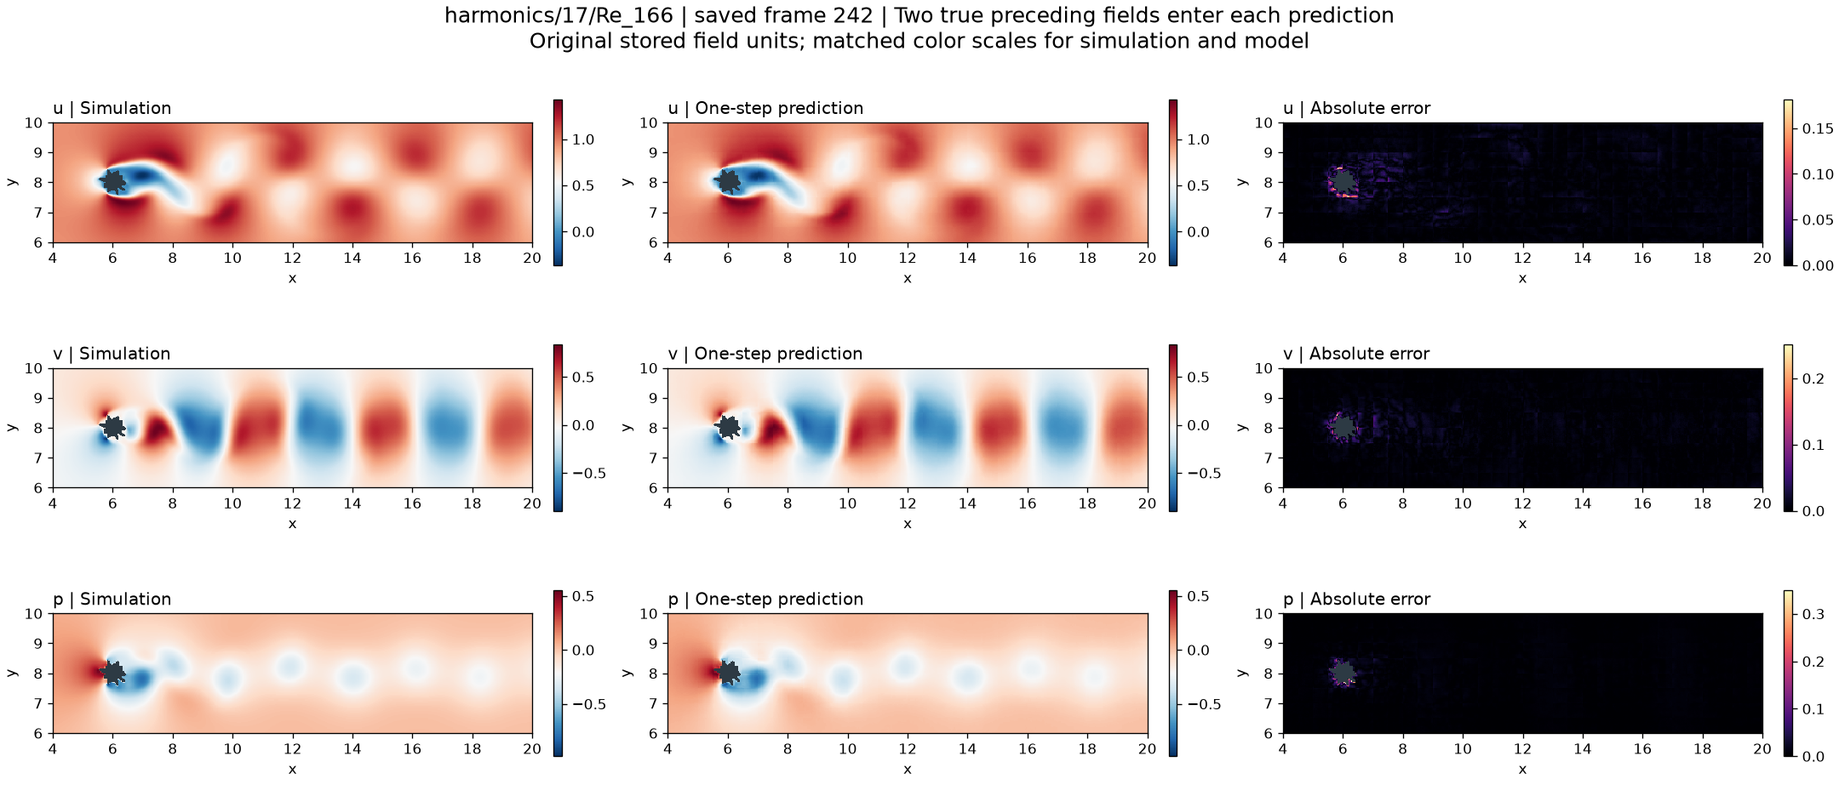
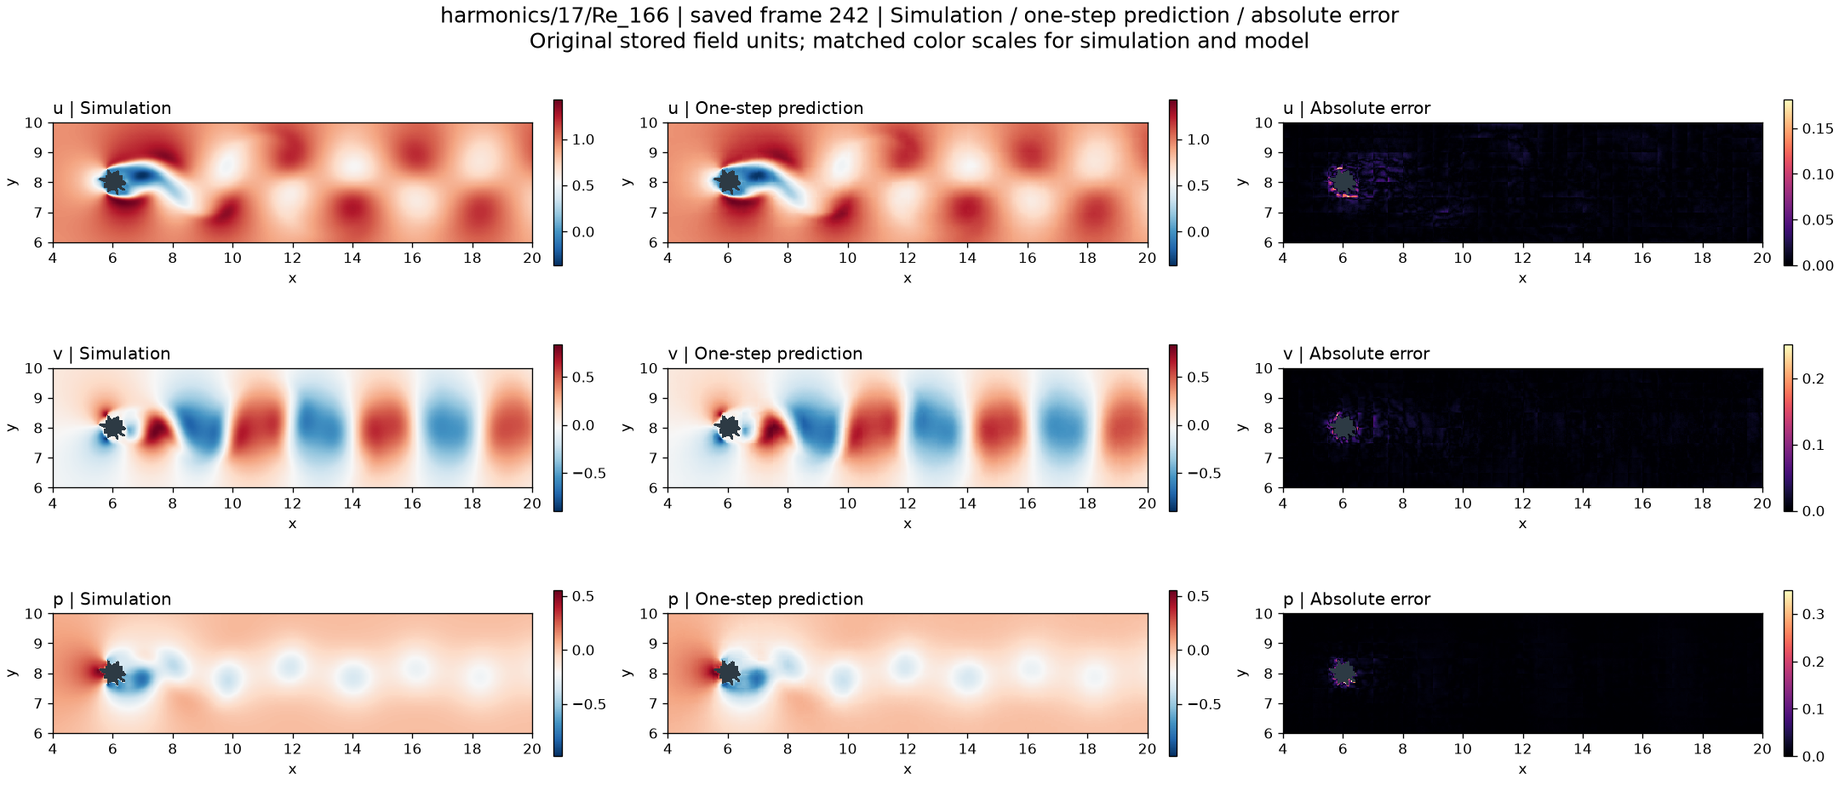
Simplify flow showcase captions and presentation text

Changed region(s): [[0.2171, 0.0, 0.7755, 0.031]]

diff --git a/scripts/build_flow_gallery.py b/scripts/build_flow_gallery.py
@@ -73,7 +73,7 @@ def scientific_frame(true, model, mask, meta, index, task, limit):
         d.text((1053, y), f"{v:.1f}", font=font(14), fill=NAVY)
     d.text((1032, 102), "v", font=font(17, True), fill=NAVY)
     d.line((28, 699, 1072, 699), fill="#d7e4eb", width=1)
-    note = "Inputs: geometry, Re + two true historical fields" if task == "prediction" else "Inputs: geometry, Re + true field at the displayed time"
+    note = "Simulation vs one-step prediction | 100 frames | 20 fps" if task == "prediction" else "Inputs: geometry, Re + true field at the displayed time"
     d.text((29, 711), note, font=font(17), fill="#536b79")
     return im
 
@@ -113,7 +113,7 @@ def full_comparison(truth, model, mask, meta, task, path):
             ax.set_title(f"{name} | {title}",loc="left",fontsize=12)
             ax.set_xlabel("x");ax.set_ylabel("y")
             fig.colorbar(pic,ax=ax,shrink=.70,pad=.025)
-    note="Two true preceding fields enter each prediction" if task=="prediction" else "Current true field enters reconstruction"
+    note="Simulation / one-step prediction / absolute error" if task=="prediction" else "Current true field enters reconstruction"
     fig.suptitle(meta["case_id"]+" | saved frame 242 | "+note+"\nOriginal stored field units; matched color scales for simulation and model",fontsize=15)
     fig.savefig(path,dpi=120);plt.close(fig)
 
@@ -123,11 +123,11 @@ def case_doc(slug, meta, shape, feature):
 
 [主页](../../README.md) · [绕流预测图集](../flow-prediction.md) · [流场重建图集](../flow-reconstruction.md)
 
-该工况来自固定测试集。关注：{feature}。几何与 Re 是共同的静态条件；下列两个任务的流场输入不同。
+该工况来自固定测试集。关注：{feature}。下方分别展示单步预测与空间重建的流场对比。
 
 ## 仿真与单步预测
 
-每次预测输入前两帧真实流场及实际查询间隔。动画连续展示 100 个时刻的单步预测，不是 100 步自由滚动。
+仿真与单步预测逐帧对照，连续展示 100 个保存时刻。
 
 ![仿真与单步预测的100帧对比](../../assets/flow/gallery/{slug}/prediction.gif)
 
@@ -148,7 +148,7 @@ def case_doc(slug, meta, shape, feature):
 def gallery_doc(task, cases):
     prediction=task=="prediction"
     heading="绕流演化：仿真与单步预测" if prediction else "流场重建：不同形状与雷诺数"
-    intro=("每次预测使用几何、Re、前两帧真实流场和实际时间间隔。这里连续展示 100 个单步预测结果，未进行长期自由滚动。" if prediction else
+    intro=("对比不同物体形状与雷诺数下的仿真流场和单步预测结果，观察尾迹随时间的变化。" if prediction else
            "每个时刻将真实流场输入自编码器，比较仿真场与重建场，观察不同几何和 Re 下的空间表示能力。")
     other="flow-reconstruction.md" if prediction else "flow-prediction.md"
     text=f'''# {heading}
@@ -176,6 +176,8 @@ def gallery_doc(task, cases):
 def main():
     p=argparse.ArgumentParser(description=__doc__)
     p.add_argument("--exports",type=Path,required=True)
+    p.add_argument("--tasks",nargs="+",choices=["prediction","reconstruction"],default=["prediction","reconstruction"],
+                   help="Render only selected task assets; retain existing assets for other tasks")
     args=p.parse_args()
     ASSETS.mkdir(parents=True,exist_ok=True)
     (ROOT/"docs/flow-cases").mkdir(exist_ok=True)
@@ -201,10 +203,15 @@ def main():
             for task in ["prediction","reconstruction"]:
                 values=z[task]
                 assert values.shape==truth.shape and np.isfinite(values).all()
-                frames=[scientific_frame(truth[i,...,1],values[i,...,1],mask,meta,i,task,limit) for i in range(100)]
-                save_gif(frames,dest/(task+".gif"))
-                frames[-1].save(dest/(task+"-preview.png"),optimize=True)
-                full_comparison(truth,values,mask,meta,task,dest/(task+"-fields.png"))
+                if task in args.tasks:
+                    frames=[scientific_frame(truth[i,...,1],values[i,...,1],mask,meta,i,task,limit) for i in range(100)]
+                    save_gif(frames,dest/(task+".gif"))
+                    frames[-1].save(dest/(task+"-preview.png"),optimize=True)
+                    full_comparison(truth,values,mask,meta,task,dest/(task+"-fields.png"))
+                else:
+                    for suffix in [".gif","-preview.png","-fields.png"]:
+                        if not (dest/(task+suffix)).is_file():
+                            raise FileNotFoundError(f"Missing retained task asset: {task+suffix}; render both tasks first")
                 delta=(values[:,mask]-truth[:,mask]).astype(np.float64)
                 metrics[task]=np.sqrt((delta**2).sum(axis=(0,1))/(truth[:,mask].astype(np.float64)**2).sum(axis=(0,1))).tolist()
             meta.update(slug=slug,shape=shape,feature=feature,

diff --git a/README.en.md b/README.en.md
@@ -16,11 +16,11 @@
 <tr><td><a href="docs/car-crash.md"><img src="assets/car-crash/prediction.gif" width="100%" alt="Vehicle crash prediction, truth and vector error across 13 saved frames" /></a></td><td><a href="docs/bumper.md"><img src="assets/bumper/prediction.gif" width="100%" alt="Bumper trajectory prediction, truth and vector error across 11 saved frames" /></a></td></tr>
 <tr><td><strong>Condition-driven transient prediction.</strong><br/>136,727 BIW nodes, 0–120 ms.<br/><a href="docs/car-crash.md">Case study →</a> · <a href="assets/car-crash/full-comparison.png">Full comparison</a></td><td><strong>One-shot trajectory prediction.</strong><br/>13,676 nodes; source length and time units.<br/><a href="docs/bumper.md">Case study →</a> · <a href="assets/bumper/full-comparison.png">Full comparison</a></td></tr>
 <tr><th>Flow Reconstruction</th><th>Flow Prediction</th></tr>
-<tr><td><a href="docs/flow-reconstruction.md"><img src="assets/flow/gallery/harmonics-17-Re-974/reconstruction.gif" width="100%" alt="Simulation and true-field-conditioned reconstruction, 100 consecutive frames, harmonics/17 Re974" /></a></td><td><a href="docs/flow-prediction.md"><img src="assets/flow/gallery/nurbs-87-Re-874/prediction.gif" width="100%" alt="Simulation and one-step prediction using two true historical fields, 100 consecutive targets, nurbs/87 Re874" /></a></td></tr>
-<tr><td><strong>Spatial field representation.</strong><br/>Simulation and reconstruction at 20 fps. Four geometry types and eight test conditions.<br/><a href="docs/flow-reconstruction.md">Geometry and Re reconstruction gallery →</a> · <a href="docs/flow-cases/harmonics-17-Re-974.md">Full u / v / p comparisons</a></td><td><strong>Simulation versus one-step prediction.</strong><br/>100 consecutive target frames; each prediction uses two true historical fields.<br/><a href="docs/flow-prediction.md">Geometry and Re prediction GIF gallery →</a> · <a href="docs/flow.md">Task details</a></td></tr>
+<tr><td><a href="docs/flow-reconstruction.md"><img src="assets/flow/gallery/harmonics-17-Re-974/reconstruction.gif" width="100%" alt="Simulation and true-field-conditioned reconstruction, 100 consecutive frames, harmonics/17 Re974" /></a></td><td><a href="docs/flow-prediction.md"><img src="assets/flow/gallery/nurbs-87-Re-874/prediction.gif" width="100%" alt="Simulation and one-step prediction across 100 consecutive frames, nurbs/87 Re874" /></a></td></tr>
+<tr><td><strong>Spatial field representation.</strong><br/>Simulation and reconstruction at 20 fps. Four geometry types and eight test conditions.<br/><a href="docs/flow-reconstruction.md">Geometry and Re reconstruction gallery →</a> · <a href="docs/flow-cases/harmonics-17-Re-974.md">Full u / v / p comparisons</a></td><td><strong>Simulation versus one-step prediction.</strong><br/>100 consecutive frames with synchronized simulation and model comparisons.<br/><a href="docs/flow-prediction.md">Geometry and Re prediction GIF gallery →</a> · <a href="docs/flow.md">Task details</a></td></tr>
 </table>
 
-Structural animations show predictions from known conditions. Flow reconstruction uses the current true field; each flow prediction uses the two preceding true fields. The 100-frame animation is not a 100-step free rollout. Flow GIFs show cross-stream velocity v with a shared fixed color scale; case pages include u / v / p and error maps. Playback time is illustrative; no temporal interpolation is used.
+Structural animations show transient response predictions. Flow cases present spatial reconstruction and one-step prediction comparisons. Flow GIFs show cross-stream velocity v with a shared fixed color scale; case pages include u / v / p and error maps. Playback time is illustrative; no temporal interpolation is used.
 
 <a id="research"></a>
 ## Research Focus

diff --git a/README.md b/README.md
@@ -37,15 +37,15 @@
   </tr>
   <tr>
     <td><a href="docs/flow-reconstruction.md"><img src="assets/flow/gallery/harmonics-17-Re-974/reconstruction.gif" width="100%" alt="多瓣形 Re974：仿真流场与自编码器重建的100帧对比，输入当前真实场" /></a></td>
-    <td><a href="docs/flow-prediction.md"><img src="assets/flow/gallery/nurbs-87-Re-874/prediction.gif" width="100%" alt="不对称形 Re874：仿真与单步预测的100帧对比，每次预测输入两帧真实历史场" /></a></td>
+    <td><a href="docs/flow-prediction.md"><img src="assets/flow/gallery/nurbs-87-Re-874/prediction.gif" width="100%" alt="不对称形 Re874：仿真与单步预测的100帧对比" /></a></td>
   </tr>
   <tr>
     <td><strong>复杂几何下的物理场表示</strong><br/>仿真流场与空间重建同步播放，100 个连续帧、20 fps。四类几何、八个 Re 工况，观察不同尾迹与横向速度结构。<br/><a href="docs/flow-reconstruction.md">不同形状与 Re 的重建图集 →</a> · <a href="docs/flow-cases/harmonics-17-Re-974.md">u / v / p 高清对比</a></td>
-    <td><strong>仿真与单步预测对比</strong><br/>每次输入两帧真实历史流场，展示 100 个连续时刻的单步预测。统一色标对照圆钝形、多瓣形、细长形与不对称形绕流。<br/><a href="docs/flow-prediction.md">不同形状与 Re 的预测动图 →</a> · <a href="docs/flow.md">案例说明</a></td>
+    <td><strong>仿真与单步预测对比</strong><br/>100 个连续时刻，流畅展示仿真与单步预测的流场对比。统一色标对照圆钝形、多瓣形、细长形与不对称形绕流。<br/><a href="docs/flow-prediction.md">不同形状与 Re 的预测动图 →</a> · <a href="docs/flow.md">案例说明</a></td>
   </tr>
 </table>
 
-**读图说明：** 结构案例为条件驱动的后续响应预测；流场重建输入当前真实场；流场单步预测输入前两帧真实场，100 帧动画不表示 100 步自由滚动。流场动画显示横向速度 v，高清图提供 u / v / p。GIF 播放速度用于演示，未进行时间插值。点击流场图片可浏览更多几何与 Re 工况。
+**读图说明：** 结构案例展示后续响应预测；流场案例分别展示空间重建与单步预测对比。流场动画显示横向速度 v，高清图提供 u / v / p。GIF 播放速度用于演示，未进行时间插值。点击流场图片可浏览更多几何与 Re 工况。
 
 <a id="research"></a>
 ## 研究方向
@@ -54,7 +54,7 @@
 | :--- | :--- | :--- |
 | **结构动力学代理模型** | 如何从结构几何、设计参数与初始条件预测非线性瞬态响应？ | 白车身碰撞、保险杠冲击的三维位移场与误差分析 |
 | **物理场空间表示** | 如何在网格与复杂流体域上压缩、重建高维物理场？ | 多尺度空间表示，以及速度、压力重建结果 |
-| **潜空间动力学** | 如何在紧凑表示上学习响应随时间的演化？ | 结构整轨迹预测；Flow 使用真实历史场的单步预测评估 |
+| **潜空间动力学** | 如何在紧凑表示上学习响应随时间的演化？ | 结构整轨迹预测；Flow 单步预测与流场对照 |
 | **物理场对照分析** | 如何观察预测场、真实场与局部误差的空间分布？ | 多视角云图、时序动画与素材来源 |
 
 <img src="assets/branding/workflow.svg" width="100%" alt="研究流程：几何与工况、空间表示、时间演化、全场响应；具体输入条件以各案例文档为准" />

diff --git a/docs/flow.md b/docs/flow.md
@@ -6,10 +6,10 @@ Flow 项目研究复杂几何绕流的速度与压力场，以几何的 SDF/mask
 
 ## 浏览流场对比
 
-| 图集 | 展示内容 | 模型使用的流场信息 |
+| 图集 | 展示内容 | 对照内容 |
 | :--- | :--- | :--- |
-| [绕流演化：仿真与单步预测](flow-prediction.md) | 四类形状、八个 Re 工况，每例 100 帧流畅对比 | 每次输入前两帧真实流场，预测下一时刻 |
-| [流场重建：形状与 Re 对比](flow-reconstruction.md) | 同一组工况的仿真与空间重建对比 | 输入当前时刻真实场并重建该时刻 |
+| [绕流演化：仿真与单步预测](flow-prediction.md) | 四类形状、八个 Re 工况，每例 100 帧流畅对比 | 仿真与单步预测 |
+| [流场重建：形状与 Re 对比](flow-reconstruction.md) | 同一组工况的仿真与空间重建对比 | 仿真与空间重建 |
 
 点击图集中的任一动图，可进入工况详情，查看预测与重建两组 GIF，以及末帧 u、v、p 的仿真、模型和绝对误差高清图。
 
@@ -30,12 +30,8 @@ Flow 项目研究复杂几何绕流的速度与压力场，以几何的 SDF/mask
 
 上方为仿真结果，下方为模型结果。GIF 显示横向速度 **v**，便于观察交替尾迹和横向速度结构。所有工况与时刻共用固定色标，深灰色是固体区域。末帧高清图补充 **u、v、p** 及绝对误差；仿真与模型共享色标，误差列使用独立色标。
 
-模型编码使用原始 **1024 × 256** 网格的真实历史场或当前场。为了控制网页体积，导出对比场在两个空间方向各每隔一个原始节点取样，形成 **512 × 128** 网格；没有对流场进行时间插值。坐标范围为原数据裁切域 `x∈[4,20], y∈[6,10]`，物理量使用原始存储尺度，不标注未经核实的 SI 单位。
+原始流场网格为 **1024 × 256**。为了控制网页体积，导出对比场在两个空间方向各每隔一个原始节点取样，形成 **512 × 128** 网格；没有对流场进行时间插值。坐标范围为原数据裁切域 `x∈[4,20], y∈[6,10]`，物理量使用原始存储尺度，不标注未经核实的 SI 单位。
 
-## 预测与重建的输入条件
+## 素材来源
 
-**单步预测：** 在每个目标时刻，使用前两个真实历史场、几何、Re 和实际查询间隔。目标时刻真实场不进入该次预测。下一次预测仍使用对应的真实历史场，因此此图集不代表只凭几何/Re 进行 100 步自由滚动的能力。
-
-**空间重建：** 当前时刻的真实流场进入编码器，模型解码出同一时刻的流场。它检验空间压缩与表示能力。
-
-当前图集与已有全测试集数值评估采用同一个冻结检查点。完整的 85 工况评估覆盖 20,570 个重建帧与 20,230 个单步预测窗口；图集只展示八个工况的连续片段。完整评估存档见 [测试集结果](../results/flow-epoch095.json)，本次素材的工况、帧序号和来源校验值见 [图集导出记录](../results/flow-gallery.json)。
+图集采用统一的冻结检查点，展示八个测试工况的连续片段。工况、帧序号和素材来源见 [图集导出记录](../results/flow-gallery.json)。

diff --git a/docs/methodology.md b/docs/methodology.md
@@ -6,11 +6,11 @@
 
 ![研究流程](../assets/branding/workflow.svg)
 
-结构案例以几何、设计参数和已知初始条件为输入，研究空间编码、潜空间演化和全场解码。Flow 案例研究复杂流体域上的多尺度空间表示，并单独评估真实历史场条件下的单步时序预测。实际模型输入与评估范围以各案例说明为准：
+结构案例以几何、设计参数和已知初始条件为输入，研究空间编码、潜空间演化和全场解码。Flow 案例研究复杂流体域上的多尺度空间表示，并展示单步时序预测。实际模型输入与评估范围以各案例说明为准：
 
 - [Car Crash](car-crash.md)：条件驱动的白车身未来位移场。
 - [Bumper](bumper.md)：已知初始网格与静态工况下的整段位置轨迹。
-- [Flow](flow.md)：重建、历史条件单步预测与原始仿真数据。
+- [Flow](flow.md)：重建、单步预测与原始仿真数据。
 
 ## 仓库结构
 
@@ -57,7 +57,7 @@ python scripts/verify_showcase.py
 
 ## 流场多工况动图
 
-本次图集使用 `scripts/export_flow_gallery.py` 在原研究环境中读取冻结检查点与预处理数据，执行推理并导出仿真、重建和单步预测场。导出程序先用两个历史编码生成预测，再读取并编码当前真实场进行重建；当前目标不进入该次预测。它不会启动训练或修改模型权重。
+本次图集使用 `scripts/export_flow_gallery.py` 在原研究环境中读取冻结检查点与预处理数据，执行推理并导出仿真、重建和单步预测场。它不会启动训练或修改模型权重。
 
 在配置好原研究环境和相应路径后执行：
 

diff --git a/NOTICE.md b/NOTICE.md
@@ -1,6 +1,6 @@
 # 来源与使用说明
 
-本仓库的展示材料由 TSYG 研究结果整理而来。车辆碰撞与保险杠图片来自既有模型评估图册；Flow 多工况图集由冻结检查点在固定测试集上的重建与真实历史场条件单步预测生成，原始流场来自 FlowBench 数据。历史评估图册与原始仿真快照另作存档。
+本仓库的展示材料由 TSYG 研究结果整理而来。车辆碰撞与保险杠图片来自既有模型评估图册；Flow 多工况图集由冻结检查点在固定测试集上的重建与单步预测生成，原始流场来自 FlowBench 数据。历史评估图册与原始仿真快照另作存档。
 
 源文件相对路径、SHA-256 与转换记录见 [results/provenance.json](results/provenance.json)。完整数据集、训练代码和模型权重不随本展示版本分发。
 

diff --git a/docs/flow-cases/harmonics-92-Re-411.md b/docs/flow-cases/harmonics-92-Re-411.md
@@ -2,11 +2,11 @@
 
 [主页](../../README.md) · [绕流预测图集](../flow-prediction.md) · [流场重建图集](../flow-reconstruction.md)
 
-该工况来自固定测试集。关注：较高 Re 下的尾迹间距与横向扩展。几何与 Re 是共同的静态条件；下列两个任务的流场输入不同。
+该工况来自固定测试集。关注：较高 Re 下的尾迹间距与横向扩展。下方分别展示单步预测与空间重建的流场对比。
 
 ## 仿真与单步预测
 
-每次预测输入前两帧真实流场及实际查询间隔。动画连续展示 100 个时刻的单步预测，不是 100 步自由滚动。
+仿真与单步预测逐帧对照，连续展示 100 个保存时刻。
 
 ![仿真与单步预测的100帧对比](../../assets/flow/gallery/harmonics-92-Re-411/prediction.gif)
 

diff --git a/docs/flow-cases/nurbs-87-Re-311.md b/docs/flow-cases/nurbs-87-Re-311.md
@@ -2,11 +2,11 @@
 
 [主页](../../README.md) · [绕流预测图集](../flow-prediction.md) · [流场重建图集](../flow-reconstruction.md)
 
-该工况来自固定测试集。关注：不对称边界引起的偏转与交替响应。几何与 Re 是共同的静态条件；下列两个任务的流场输入不同。
+该工况来自固定测试集。关注：不对称边界引起的偏转与交替响应。下方分别展示单步预测与空间重建的流场对比。
 
 ## 仿真与单步预测
 
-每次预测输入前两帧真实流场及实际查询间隔。动画连续展示 100 个时刻的单步预测，不是 100 步自由滚动。
+仿真与单步预测逐帧对照，连续展示 100 个保存时刻。
 
 ![仿真与单步预测的100帧对比](../../assets/flow/gallery/nurbs-87-Re-311/prediction.gif)
 

diff --git a/docs/flow-cases/harmonics-17-Re-974.md b/docs/flow-cases/harmonics-17-Re-974.md
@@ -2,11 +2,11 @@
 
 [主页](../../README.md) · [绕流预测图集](../flow-prediction.md) · [流场重建图集](../flow-reconstruction.md)
 
-该工况来自固定测试集。关注：偏转尾迹与不规则横向速度结构。几何与 Re 是共同的静态条件；下列两个任务的流场输入不同。
+该工况来自固定测试集。关注：偏转尾迹与不规则横向速度结构。下方分别展示单步预测与空间重建的流场对比。
 
 ## 仿真与单步预测
 
-每次预测输入前两帧真实流场及实际查询间隔。动画连续展示 100 个时刻的单步预测，不是 100 步自由滚动。
+仿真与单步预测逐帧对照，连续展示 100 个保存时刻。
 
 ![仿真与单步预测的100帧对比](../../assets/flow/gallery/harmonics-17-Re-974/prediction.gif)
 

diff --git a/docs/flow-cases/nurbs-62-Re-979.md b/docs/flow-cases/nurbs-62-Re-979.md
@@ -2,11 +2,11 @@
 
 [主页](../../README.md) · [绕流预测图集](../flow-prediction.md) · [流场重建图集](../flow-reconstruction.md)
 
-该工况来自固定测试集。关注：较大尺度的尾迹摆动与疏密变化。几何与 Re 是共同的静态条件；下列两个任务的流场输入不同。
+该工况来自固定测试集。关注：较大尺度的尾迹摆动与疏密变化。下方分别展示单步预测与空间重建的流场对比。
 
 ## 仿真与单步预测
 
-每次预测输入前两帧真实流场及实际查询间隔。动画连续展示 100 个时刻的单步预测，不是 100 步自由滚动。
+仿真与单步预测逐帧对照，连续展示 100 个保存时刻。
 
 ![仿真与单步预测的100帧对比](../../assets/flow/gallery/nurbs-62-Re-979/prediction.gif)
 

diff --git a/docs/flow-cases/nurbs-87-Re-874.md b/docs/flow-cases/nurbs-87-Re-874.md
@@ -2,11 +2,11 @@
 
 [主页](../../README.md) · [绕流预测图集](../flow-prediction.md) · [流场重建图集](../flow-reconstruction.md)
 
-该工况来自固定测试集。关注：丰富的尾迹速度结构与横向变化。几何与 Re 是共同的静态条件；下列两个任务的流场输入不同。
+该工况来自固定测试集。关注：丰富的尾迹速度结构与横向变化。下方分别展示单步预测与空间重建的流场对比。
 
 ## 仿真与单步预测
 
-每次预测输入前两帧真实流场及实际查询间隔。动画连续展示 100 个时刻的单步预测，不是 100 步自由滚动。
+仿真与单步预测逐帧对照，连续展示 100 个保存时刻。
 
 ![仿真与单步预测的100帧对比](../../assets/flow/gallery/nurbs-87-Re-874/prediction.gif)
 

diff --git a/docs/flow-cases/harmonics-17-Re-166.md b/docs/flow-cases/harmonics-17-Re-166.md
@@ -2,11 +2,11 @@
 
 [主页](../../README.md) · [绕流预测图集](../flow-prediction.md) · [流场重建图集](../flow-reconstruction.md)
 
-该工况来自固定测试集。关注：多瓣边界后的近尾迹发展。几何与 Re 是共同的静态条件；下列两个任务的流场输入不同。
+该工况来自固定测试集。关注：多瓣边界后的近尾迹发展。下方分别展示单步预测与空间重建的流场对比。
 
 ## 仿真与单步预测
 
-每次预测输入前两帧真实流场及实际查询间隔。动画连续展示 100 个时刻的单步预测，不是 100 步自由滚动。
+仿真与单步预测逐帧对照，连续展示 100 个保存时刻。
 
 ![仿真与单步预测的100帧对比](../../assets/flow/gallery/harmonics-17-Re-166/prediction.gif)
 
